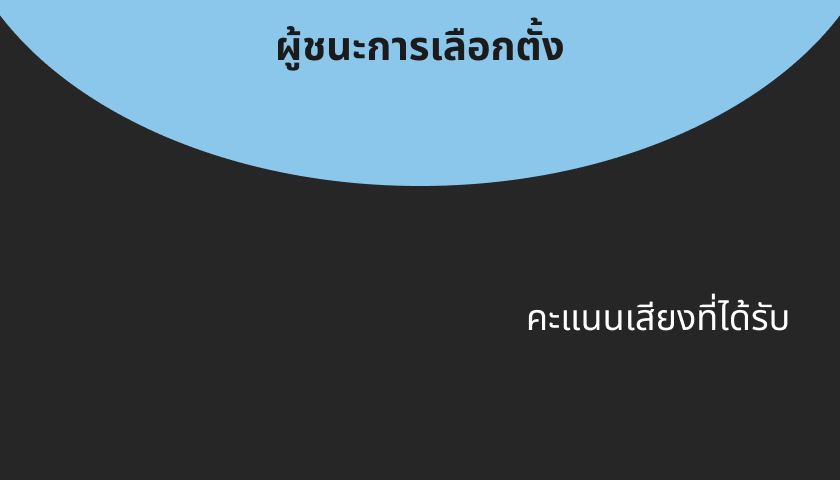
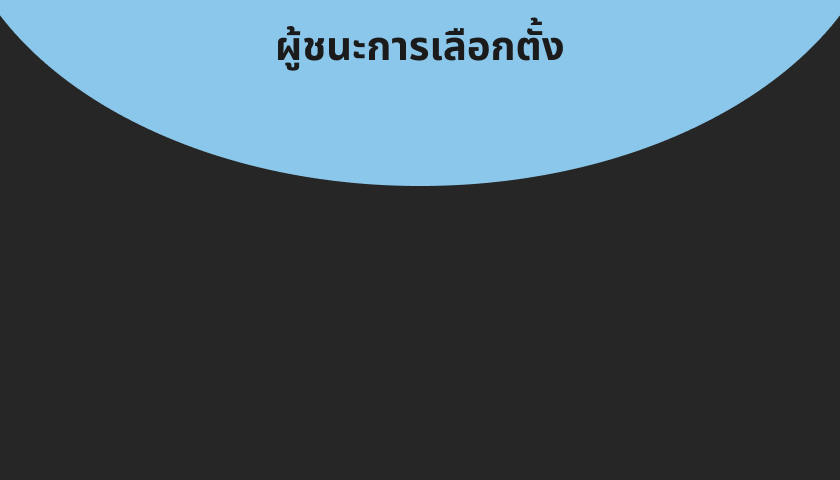
delete show score in final page

Changed region(s): [[0.619, 0.625, 0.9595, 0.6875]]

diff --git a/src/view/Final.java b/src/view/Final.java
@@ -30,7 +30,6 @@ public class Final extends javax.swing.JFrame {
         jLabel1 = new javax.swing.JLabel();
         NameBlock = new javax.swing.JLabel();
         stdBlock = new javax.swing.JLabel();
-        score = new javax.swing.JLabel();
         jButton1 = new javax.swing.JButton();
         jLabel2 = new javax.swing.JLabel();
 
@@ -44,21 +43,19 @@ public class Final extends javax.swing.JFrame {
 
         NameBlock.setFont(new java.awt.Font("Lucida Grande", 0, 30)); // NOI18N
         NameBlock.setForeground(new java.awt.Color(255, 255, 255));
+        NameBlock.setHorizontalAlignment(javax.swing.SwingConstants.CENTER);
         NameBlock.setText("พิสิฐไชย เรืองวัฒนาพงษ์");
-        jPanel1.add(NameBlock, new org.netbeans.lib.awtextra.AbsoluteConstraints(50, 300, -1, -1));
+        jPanel1.add(NameBlock, new org.netbeans.lib.awtextra.AbsoluteConstraints(6, 300, 830, -1));
 
         stdBlock.setFont(new java.awt.Font("Lucida Grande", 0, 30)); // NOI18N
         stdBlock.setForeground(new java.awt.Color(255, 255, 255));
+        stdBlock.setHorizontalAlignment(javax.swing.SwingConstants.CENTER);
         stdBlock.setText("63070121");
-        jPanel1.add(stdBlock, new org.netbeans.lib.awtextra.AbsoluteConstraints(110, 350, -1, -1));
+        jPanel1.add(stdBlock, new org.netbeans.lib.awtextra.AbsoluteConstraints(0, 350, 840, -1));
 
-        score.setFont(new java.awt.Font("Lucida Grande", 0, 30)); // NOI18N
-        score.setForeground(new java.awt.Color(255, 255, 255));
-        score.setText("30");
-        jPanel1.add(score, new org.netbeans.lib.awtextra.AbsoluteConstraints(640, 350, -1, -1));
-
+        jButton1.setBackground(new java.awt.Color(255, 255, 255));
         jButton1.setText("ออกจากระบบ");
-        jPanel1.add(jButton1, new org.netbeans.lib.awtextra.AbsoluteConstraints(350, 410, -1, 50));
+        jPanel1.add(jButton1, new org.netbeans.lib.awtextra.AbsoluteConstraints(360, 410, -1, 50));
 
         jLabel2.setIcon(new javax.swing.ImageIcon(getClass().getResource("/view/images/finalPage.png"))); // NOI18N
         jPanel1.add(jLabel2, new org.netbeans.lib.awtextra.AbsoluteConstraints(0, 0, -1, 480));
@@ -118,7 +115,6 @@ public class Final extends javax.swing.JFrame {
     private javax.swing.JLabel jLabel1;
     private javax.swing.JLabel jLabel2;
     private javax.swing.JPanel jPanel1;
-    private javax.swing.JLabel score;
     private javax.swing.JLabel stdBlock;
     // End of variables declaration//GEN-END:variables
 }
